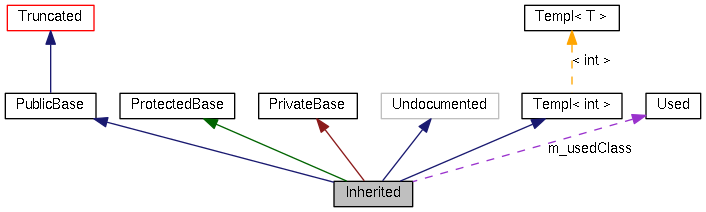
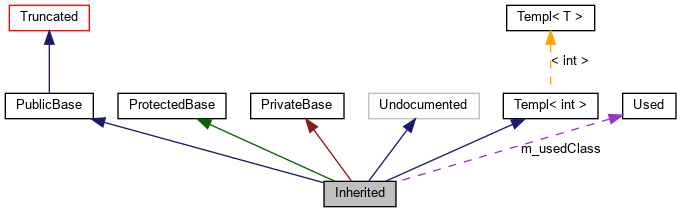
adding Discussions and Links tabs, Links now contain the Pulseq-related software list

diff --git a/graph_legend.html b/graph_legend.html
@@ -4,7 +4,7 @@
 <head>
 <meta http-equiv="Content-Type" content="text/xhtml;charset=UTF-8"/>
 <meta http-equiv="X-UA-Compatible" content="IE=9"/>
-<meta name="generator" content="Doxygen 1.8.8"/>
+<meta name="generator" content="Doxygen 1.9.1"/>
 <meta name="keywords" content="MRI, magnetic resonance, imaging, MR, NMR, sequence">
 <meta name="description" content="Open source pulse sequences for NMR and MRI">
 <meta name="author" content="University Medical Center Freiburg">
@@ -14,10 +14,8 @@
 <script type="text/javascript" src="jquery.js"></script>
 <script type="text/javascript" src="dynsections.js"></script>
 <link href="search/search.css" rel="stylesheet" type="text/css"/>
+<script type="text/javascript" src="search/searchdata.js"></script>
 <script type="text/javascript" src="search/search.js"></script>
-<script type="text/javascript">
-  $(document).ready(function() { searchBox.OnSelectItem(0); });
-</script>
 <link href="doxygen.css" rel="stylesheet" type="text/css" />
 <link href="customstyles.css" rel="stylesheet" type="text/css"/>
 <script>
@@ -47,39 +45,29 @@
 </table>
 </div>
 <!-- end header part -->
-<!-- Generated by Doxygen 1.8.8 -->
+<!-- Generated by Doxygen 1.9.1 -->
 <script type="text/javascript">
-var searchBox = new SearchBox("searchBox", "search",false,'Search');
+/* @license magnet:?xt=urn:btih:cf05388f2679ee054f2beb29a391d25f4e673ac3&amp;dn=gpl-2.0.txt GPL-v2 */
+var searchBox = new SearchBox("searchBox", "search",false,'Search','.html');
+/* @license-end */
 </script>
-  <div id="navrow1" class="tabs">
-    <ul class="tablist">
-      <li><a href="index.html"><span>Home</span></a></li>
-      <li><a href="https://github.com/pulseq/pulseq"><span>Source</span></a></li>
-      <li>
-        <div id="MSearchBox" class="MSearchBoxInactive">
-        <span class="left">
-          <img id="MSearchSelect" src="search/mag_sel.png"
-               onmouseover="return searchBox.OnSearchSelectShow()"
-               onmouseout="return searchBox.OnSearchSelectHide()"
-               alt=""/>
-          <input type="text" id="MSearchField" value="Search" accesskey="S"
-               onfocus="searchBox.OnSearchFieldFocus(true)" 
-               onblur="searchBox.OnSearchFieldFocus(false)" 
-               onkeyup="searchBox.OnSearchFieldChange(event)"/>
-          </span><span class="right">
-            <a id="MSearchClose" href="javascript:searchBox.CloseResultsWindow()"><img id="MSearchCloseImg" border="0" src="search/close.png" alt=""/></a>
-          </span>
-        </div>
-      </li>
-    </ul>
-  </div>
+<script type="text/javascript" src="menudata.js"></script>
+<script type="text/javascript" src="menu.js"></script>
+<script type="text/javascript">
+/* @license magnet:?xt=urn:btih:cf05388f2679ee054f2beb29a391d25f4e673ac3&amp;dn=gpl-2.0.txt GPL-v2 */
+$(function() {
+  initMenu('',true,false,'search.php','Search');
+  $(document).ready(function() { init_search(); });
+});
+/* @license-end */</script>
+<div id="main-nav"></div>
 </div><!-- top -->
 <!-- window showing the filter options -->
 <div id="MSearchSelectWindow"
      onmouseover="return searchBox.OnSearchSelectShow()"
      onmouseout="return searchBox.OnSearchSelectHide()"
      onkeydown="return searchBox.OnSearchSelectKey(event)">
-<a class="SelectItem" href="javascript:void(0)" onclick="searchBox.OnSelectItem(0)"><span class="SelectionMark">&#160;</span>All</a><a class="SelectItem" href="javascript:void(0)" onclick="searchBox.OnSelectItem(1)"><span class="SelectionMark">&#160;</span>Pages</a></div>
+</div>
 
 <!-- iframe showing the search results (closed by default) -->
 <div id="MSearchResultsWindow">
@@ -94,52 +82,49 @@ var searchBox = new SearchBox("searchBox", "search",false,'Search');
 </div><!--header-->
 <div class="contents">
 <p>This page explains how to interpret the graphs that are generated by doxygen.</p>
-<p>Consider the following example: </p><div class="fragment"><div class="line"><a name="l00001"></a><span class="lineno">    1</span>&#160;/*! Invisible class because of truncation */</div>
-<div class="line"><a name="l00002"></a><span class="lineno">    2</span>&#160;class Invisible { };</div>
-<div class="line"><a name="l00003"></a><span class="lineno">    3</span>&#160;</div>
-<div class="line"><a name="l00004"></a><span class="lineno">    4</span>&#160;/*! Truncated class, inheritance relation is hidden */</div>
-<div class="line"><a name="l00005"></a><span class="lineno">    5</span>&#160;class Truncated : public Invisible { };</div>
-<div class="line"><a name="l00006"></a><span class="lineno">    6</span>&#160;</div>
-<div class="line"><a name="l00007"></a><span class="lineno">    7</span>&#160;/* Class not documented with doxygen comments */</div>
-<div class="line"><a name="l00008"></a><span class="lineno">    8</span>&#160;class Undocumented { };</div>
-<div class="line"><a name="l00009"></a><span class="lineno">    9</span>&#160;</div>
-<div class="line"><a name="l00010"></a><span class="lineno">   10</span>&#160;/*! Class that is inherited using public inheritance */</div>
-<div class="line"><a name="l00011"></a><span class="lineno">   11</span>&#160;class PublicBase : public Truncated { };</div>
-<div class="line"><a name="l00012"></a><span class="lineno">   12</span>&#160;</div>
-<div class="line"><a name="l00013"></a><span class="lineno">   13</span>&#160;/*! A template class */</div>
-<div class="line"><a name="l00014"></a><span class="lineno">   14</span>&#160;template&lt;class T&gt; class Templ { };</div>
-<div class="line"><a name="l00015"></a><span class="lineno">   15</span>&#160;</div>
-<div class="line"><a name="l00016"></a><span class="lineno">   16</span>&#160;/*! Class that is inherited using protected inheritance */</div>
-<div class="line"><a name="l00017"></a><span class="lineno">   17</span>&#160;class ProtectedBase { };</div>
-<div class="line"><a name="l00018"></a><span class="lineno">   18</span>&#160;</div>
-<div class="line"><a name="l00019"></a><span class="lineno">   19</span>&#160;/*! Class that is inherited using private inheritance */</div>
-<div class="line"><a name="l00020"></a><span class="lineno">   20</span>&#160;class PrivateBase { };</div>
-<div class="line"><a name="l00021"></a><span class="lineno">   21</span>&#160;</div>
-<div class="line"><a name="l00022"></a><span class="lineno">   22</span>&#160;/*! Class that is used by the Inherited class */</div>
-<div class="line"><a name="l00023"></a><span class="lineno">   23</span>&#160;class Used { };</div>
-<div class="line"><a name="l00024"></a><span class="lineno">   24</span>&#160;</div>
-<div class="line"><a name="l00025"></a><span class="lineno">   25</span>&#160;/*! Super class that inherits a number of other classes */</div>
-<div class="line"><a name="l00026"></a><span class="lineno">   26</span>&#160;class Inherited : public PublicBase,</div>
-<div class="line"><a name="l00027"></a><span class="lineno">   27</span>&#160;                  protected ProtectedBase,</div>
-<div class="line"><a name="l00028"></a><span class="lineno">   28</span>&#160;                  private PrivateBase,</div>
-<div class="line"><a name="l00029"></a><span class="lineno">   29</span>&#160;                  public Undocumented,</div>
-<div class="line"><a name="l00030"></a><span class="lineno">   30</span>&#160;                  public Templ&lt;int&gt;</div>
-<div class="line"><a name="l00031"></a><span class="lineno">   31</span>&#160;{</div>
-<div class="line"><a name="l00032"></a><span class="lineno">   32</span>&#160;  private:</div>
-<div class="line"><a name="l00033"></a><span class="lineno">   33</span>&#160;    Used *m_usedClass;</div>
-<div class="line"><a name="l00034"></a><span class="lineno">   34</span>&#160;};</div>
+<p>Consider the following example: </p><div class="fragment"><div class="line"><span class="comment">/*! Invisible class because of truncation */</span></div>
+<div class="line"><span class="keyword">class </span>Invisible { };</div>
+<div class="line"><span class="comment"></span> </div>
+<div class="line"><span class="comment">/*! Truncated class, inheritance relation is hidden */</span></div>
+<div class="line"><span class="keyword">class </span>Truncated : <span class="keyword">public</span> Invisible { };</div>
+<div class="line"> </div>
+<div class="line"><span class="comment">/* Class not documented with doxygen comments */</span></div>
+<div class="line"><span class="keyword">class </span>Undocumented { };</div>
+<div class="line"><span class="comment"></span> </div>
+<div class="line"><span class="comment">/*! Class that is inherited using public inheritance */</span></div>
+<div class="line"><span class="keyword">class </span>PublicBase : <span class="keyword">public</span> Truncated { };</div>
+<div class="line"><span class="comment"></span> </div>
+<div class="line"><span class="comment">/*! A template class */</span></div>
+<div class="line"><span class="keyword">template</span>&lt;<span class="keyword">class</span> T&gt; <span class="keyword">class </span>Templ { };</div>
+<div class="line"><span class="comment"></span> </div>
+<div class="line"><span class="comment">/*! Class that is inherited using protected inheritance */</span></div>
+<div class="line"><span class="keyword">class </span>ProtectedBase { };</div>
+<div class="line"><span class="comment"></span> </div>
+<div class="line"><span class="comment">/*! Class that is inherited using private inheritance */</span></div>
+<div class="line"><span class="keyword">class </span>PrivateBase { };</div>
+<div class="line"><span class="comment"></span> </div>
+<div class="line"><span class="comment">/*! Class that is used by the Inherited class */</span></div>
+<div class="line"><span class="keyword">class </span>Used { };</div>
+<div class="line"><span class="comment"></span> </div>
+<div class="line"><span class="comment">/*! Super class that inherits a number of other classes */</span></div>
+<div class="line"><span class="keyword">class </span>Inherited : <span class="keyword">public</span> PublicBase,</div>
+<div class="line">                  <span class="keyword">protected</span> ProtectedBase,</div>
+<div class="line">                  <span class="keyword">private</span> PrivateBase,</div>
+<div class="line">                  <span class="keyword">public</span> Undocumented,</div>
+<div class="line">                  <span class="keyword">public</span> Templ&lt;int&gt;</div>
+<div class="line">{</div>
+<div class="line">  <span class="keyword">private</span>:</div>
+<div class="line">    Used *m_usedClass;</div>
+<div class="line">};</div>
 </div><!-- fragment --><p> This will result in the following graph:</p>
-<center><div class="image">
-<img src="graph_legend.png" />
-</div>
-</center><p>The boxes in the above graph have the following meaning: </p>
+<center><img src="graph_legend.png" alt="" class="inline"/></center><p>The boxes in the above graph have the following meaning: </p>
 <ul>
 <li>
 A filled gray box represents the struct or class for which the graph is generated. </li>
 <li>
 A box with a black border denotes a documented struct or class. </li>
 <li>
-A box with a grey border denotes an undocumented struct or class. </li>
+A box with a gray border denotes an undocumented struct or class. </li>
 <li>
 A box with a red border denotes a documented struct or class forwhich not all inheritance/containment relations are shown. A graph is truncated if it does not fit within the specified boundaries. </li>
 </ul>
@@ -152,15 +137,15 @@ A dark green arrow is used for protected inheritance. </li>
 <li>
 A dark red arrow is used for private inheritance. </li>
 <li>
-A purple dashed arrow is used if a class is contained or used by another class. The arrow is labeled with the variable(s) through which the pointed class or struct is accessible. </li>
+A purple dashed arrow is used if a class is contained or used by another class. The arrow is labelled with the variable(s) through which the pointed class or struct is accessible. </li>
 <li>
-A yellow dashed arrow denotes a relation between a template instance and the template class it was instantiated from. The arrow is labeled with the template parameters of the instance. </li>
+A yellow dashed arrow denotes a relation between a template instance and the template class it was instantiated from. The arrow is labelled with the template parameters of the instance. </li>
 </ul>
 </div><!-- contents -->
 <!-- HTML footer for doxygen 1.8.9.1-->
 <!-- start footer part -->
 <hr class="footer"/><address class="footer"><small>
-Generated by <a href="http://www.doxygen.org/index.html">doxygen</a> 1.8.8
+Generated by <a href="http://www.doxygen.org/index.html">doxygen</a> 1.9.1
 </small></address>
 </body>
 </html>

diff --git a/tutorials.html b/tutorials.html
@@ -82,13 +82,13 @@ $(function() {
 </div><!--header-->
 <div class="contents">
 <div class="textblock"><p>We work constantly on impoving our documentation. One aspect of these activities is to provide step-by-step hands-on introductions and tutorials, both both beginners and advanced users. Below is the list of such resources:</p>
-<h2><a class="anchor" id="autotoc_md9"></a>
+<h2><a class="anchor" id="autotoc_md11"></a>
 Main tutorials repository</h2>
 <p>This <a href="https://github.com/pulseq/tutorials">repository</a> contains a collection of various Pulseq tutorials covering both the most initial aspects and more advanced topics. It currently contains FID, PRESS, GRE, EPI and some non-Cartesian imaging examples alsong with the Matlab source code, raw data examples and sample reconstruction scripts. Visit <a href="https://github.com/pulseq/tutorials">Pulseq Tutorials</a> repository.</p>
-<h2><a class="anchor" id="autotoc_md10"></a>
+<h2><a class="anchor" id="autotoc_md12"></a>
 MR Physics with Pulseq</h2>
 <p>This <a href="https://github.com/pulseq/mr-physics-with-pulseq">repository</a> is based on materials for the Ph.D. student training program of the German Chapter of the ISMRM and is being developed further. In this course, basic and advanced concepts of MR physics are introduced through theoretical lectures by MR experts and followed by the corresponding hands-on exercises. All lecture slides are available as PDFs. The repository is focused on pyPulseq that is configured to run directly in your browser as interactive Notebooks. Visit <a href="https://github.com/pulseq/mr-physics-with-pulseq">MR Physics with Pulseq</a> repository.</p>
-<h2><a class="anchor" id="autotoc_md11"></a>
+<h2><a class="anchor" id="autotoc_md13"></a>
 ISMRM Virtual Meeting Series - November 15-17, 2023</h2>
 <p>This <a href="https://github.com/pulseq/ismrm-virtual-meeting--november-15-17-2023">repository</a> contains materials of the Three-Day ISMRM Virtual Meeting Series held on November 15-17, 2023 dedicated to Vendor-Agnostic Pulse Sequence Programming with Pulseq: From Basics to Advanced Topics. The repository contains the detailed program, meeting materials, presentation slides, tailor-made tutorials and discussion boards. Recoded videos of the presentations are available to the ISMRM members and can be accesses via the ISMRM web site. </p>
 </div></div><!-- contents -->

diff --git a/menudata.js b/menudata.js
@@ -25,5 +25,7 @@
 var menudata={children:[
 {text:"Home",url:"index.html"},
 {text:"News",url:"news.html"},
+{text:"Discussions",url:"https://github.com/pulseq/pulseq/discussions"},
 {text:"Tutorials",url:"tutorials.html"},
+{text:"Links",url:"links.html"},
 {text:"Source",url:"https://github.com/pulseq/pulseq"}]}

diff --git a/customstyles.css b/customstyles.css
@@ -1,6 +1,11 @@
-
+/*
+.sm-dox {
+   background-image: none!important;
+   background-color: yellow;
+} 
+*/
 .tabs, .tabs2, .tabs3 {
-	background-image: none;
+	background-image: none!important;
 	border-style: none;
 	border-width: 1px;
     border-top-style: solid;
